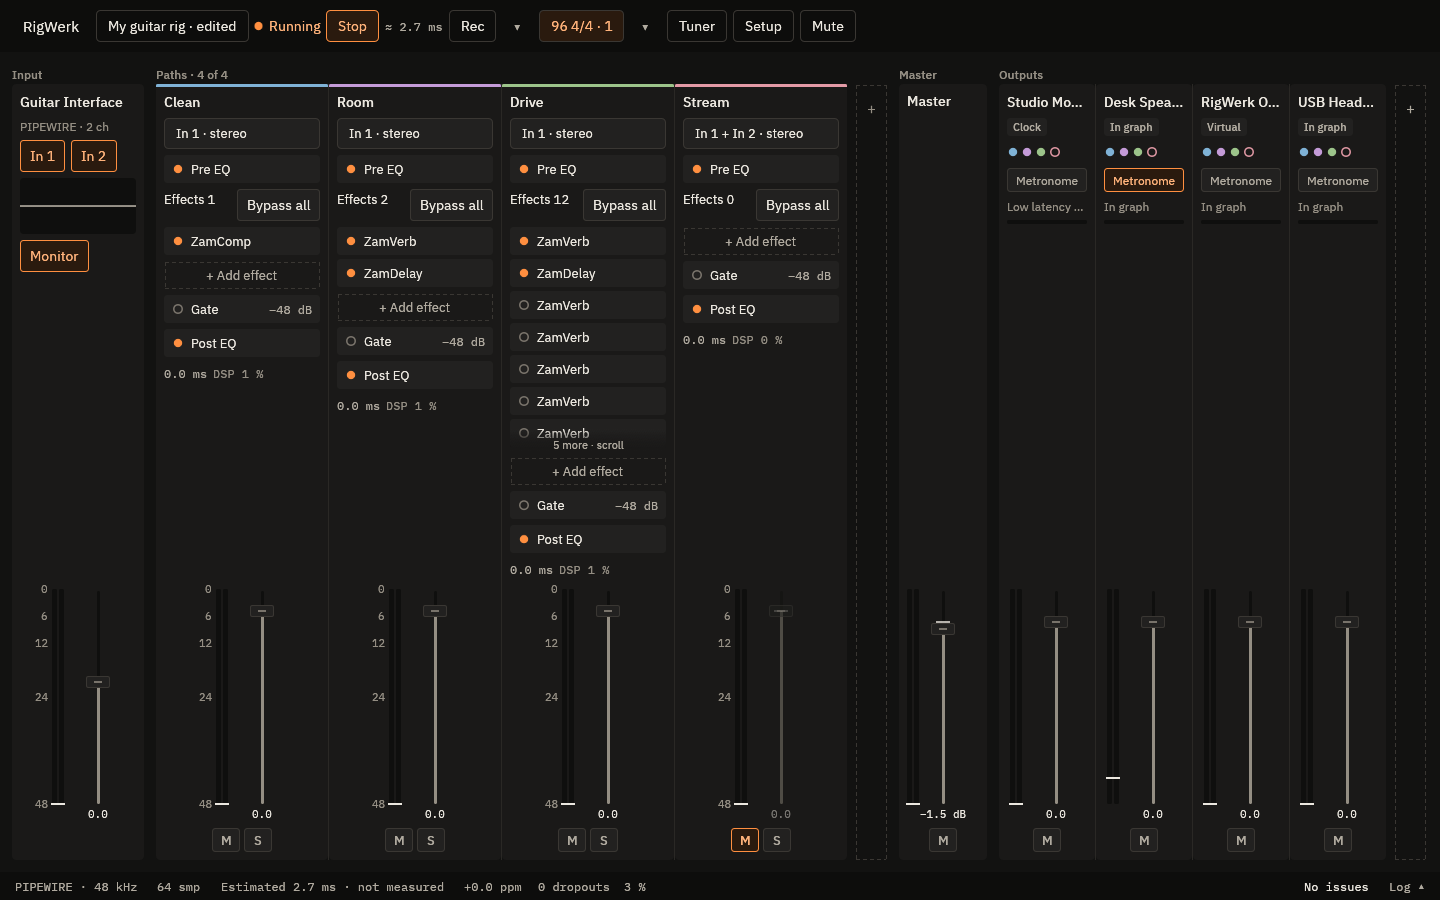
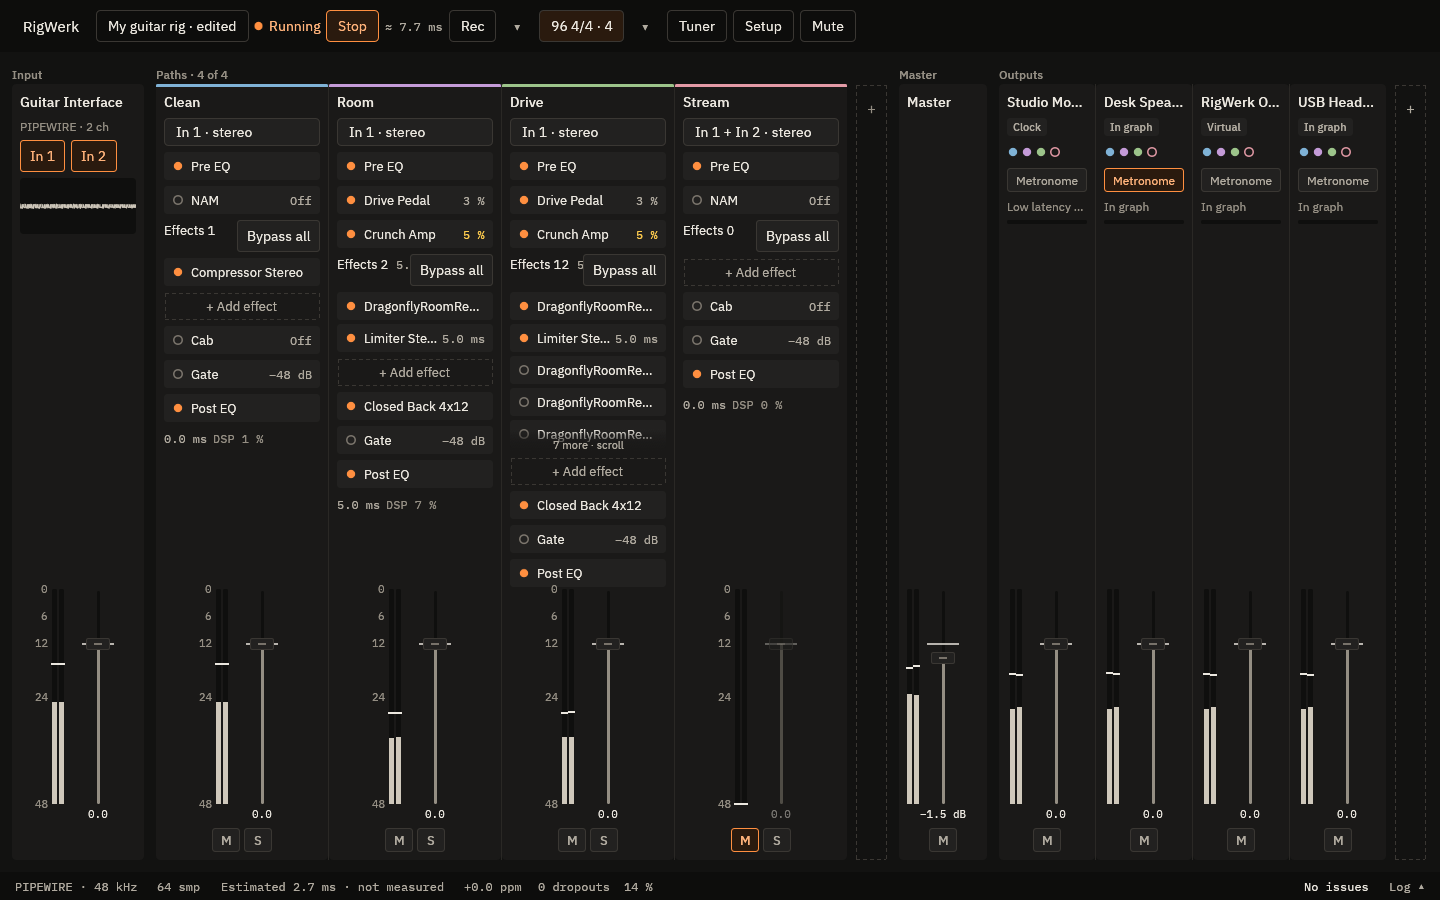
Retake the screenshots with NAM blocks and a cab IR
- Room runs Drive Pedal and Crunch Amp captures and a 4x12 cab IR
- Add nam-sheet.png and cab-sheet.png to the manual
- Screenshot notes: Ubuntu plugins, Xvfb screen size, DSP alarm retakes

Claude-Session: https://claude.ai/code/session_018r1ZSo8JAHcDKrnKkAPiLM

diff --git a/docs/screenshots/README.md b/docs/screenshots/README.md
@@ -33,7 +33,8 @@ export RIGWERK_SCREENSHOT_CAB="2=$HOME/Music/IR/Closed Back 4x12.wav"
 
 shot() {
   rm -rf "/tmp/shot-$1" && mkdir -p "/tmp/shot-$1"
-  HOME="/tmp/shot-$1" xvfb-run -a cargo run --release -- \
+  HOME="/tmp/shot-$1" LP_NUM_THREADS=1 \
+    xvfb-run -a -s "-screen 0 3200x2000x24" cargo run --release -- \
     --screenshot "docs/screenshots/$1"
 }
 ```
@@ -52,8 +53,12 @@ shot() {
 | `setup.png` | `RIGWERK_PAGE=setup shot setup.png` | Setup |
 | `console-1040x700.png` | `RIGWERK_SCREENSHOT_SIZE=1040x700 RIGWERK_PAGE=console shot console-1040x700.png` | the console at the minimum window size |
 
-On a shared VM the DSP alarm can trip on scheduling jitter at the 64-sample
-buffer; a shot that shows the amber ▲ beside a path's DSP figure is retaken.
+The large Xvfb screen keeps the pointer, which starts in its centre, off
+the window, so no tooltip shows.  `LP_NUM_THREADS=1` keeps Mesa's software
+renderer from starving the audio thread.  On a shared VM the DSP alarm can
+still trip on scheduling jitter at the 64-sample buffer, and a capture's
+load is measured once while the app starts: retake a shot that shows the
+amber ▲ beside a path's DSP figure or an implausible block load.
 
 The default size is 1440 × 1080; the set above asks for 1440 × 900 because
 that is the size the console is designed at. `--screenshot <file>` renders

diff --git a/docs/manual.md b/docs/manual.md
@@ -119,6 +119,10 @@ and each strip shows a thin meter.
 
 ![The EQ sheet](screenshots/eq-sheet.png)
 
+![The NAM sheet](screenshots/nam-sheet.png)
+
+![The cab sheet](screenshots/cab-sheet.png)
+
 ![The output sheet](screenshots/output-sheet.png)
 
 The effects group opens the **effect browser** from its dashed *+ Add
